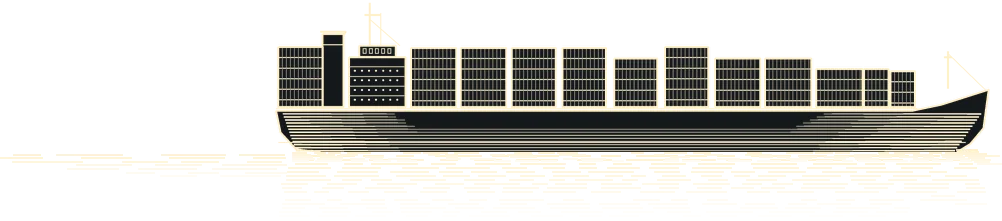
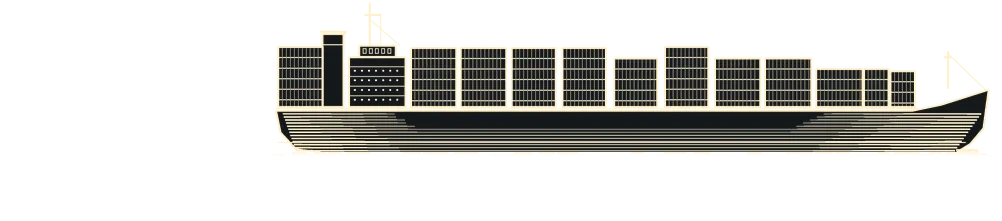
Home: living water and natural lighthouse light (#16)
* Home: living water and natural lighthouse light

WebGL water layer (assets/water.js) redraws the water band of the engraving
with gentle waves that grow toward the viewer, lights the water in a sector
that follows the rotating lamp, and adds a trembling lamp reflection under
the tower. Dotted ray strokes replaced by a soft flare on the flash. Footer
veil over the scene lightened with text shadows so the water stays visible.

Claude-Session: https://claude.ai/code/session_019uoHAZrWXwvkmWoHCXnm76

* Scene: ships no longer carry their own water strip

The hull layers are cut at the waterline so the ship sails over the living
water instead of dragging a patch of strokes along with it.

Claude-Session: https://claude.ai/code/session_019uoHAZrWXwvkmWoHCXnm76

---------

Changed region(s): [[0.0, 0.6787, 1.0, 0.8416]]

diff --git a/assets/water.js b/assets/water.js
@@ -1,0 +1,64 @@
+/* 29.10: жива вода у гравюрі (WebGL). Смуга води (y 1200–1800 сцени) малюється наново з м'яким хвилюванням,
+   що росте до глядача; світло маяка лягає на воду сектором за кутом ліхтаря (window.avLight з engrave.js),
+   під ліхтарем — тремтливий відблиск лампи. Без WebGL або при reduced-motion лишається статична картинка. */
+(function () {
+  var sec = document.querySelector('.lh'), eg = sec && sec.querySelector('.eg');
+  if (!eg || matchMedia('(prefers-reduced-motion:reduce)').matches) return;
+  var img = eg.querySelector('img.scene'); if (!img) return;
+  var cv = document.createElement('canvas'); cv.className = 'water';
+  var gl = cv.getContext('webgl', { alpha: false, antialias: false, premultipliedAlpha: false, powerPreference: 'low-power' });
+  if (!gl) return;
+  var VS = 'attribute vec2 p;varying vec2 u;void main(){u=vec2(p.x*0.5+0.5,0.5-p.y*0.5);gl_Position=vec4(p,0.,1.);}';
+  var FS = [
+    'precision mediump float;varying vec2 u;uniform sampler2D S,M;uniform float T,TH,FL,V0,X0,W;',
+    'float dA(float a,float b){float d=mod(a-b+3.14159,6.28318);return d-3.14159;}',
+    'void main(){float v=u.y;vec2 mu=vec2((X0+u.x*W)/3304.0,v);float m=texture2D(M,mu).r;',
+    /* хвилі: дрібні біля горизонту, більші й повільніші ближче */
+    'float k=1.0/(0.10+0.9*v);float w1=sin(u.x*52.0*k+T*0.8+v*9.0);float w2=sin(u.x*21.0*k-T*0.5+v*29.0);float w3=sin(v*9.0*k+T*1.1+u.x*13.0);',
+    'float a=(0.0007+0.0055*v*v)*m;float dx=a*(0.55*w1+0.35*w2);float dy=(0.0004+0.0035*v*v)*m*(0.6*w3+0.25*w1);',
+    'vec3 c=texture2D(S,vec2(u.x+dx,V0+v*(1.0-V0)+dy)).rgb;float lum=dot(c,vec3(0.3,0.5,0.2));',
+    /* площина води: глибина від горизонту, кут з маяка до точки (0 — праворуч, 90° — на глядача) */
+    'float ys=v*600.0+6.0;float Z=1000.0/ys;float xs=X0+u.x*W;float X=(xs-1380.0)*Z/1000.0;float Zl=1000.0/280.0;',
+    'float dX=X;float dZ=Zl-Z;float ang=atan(dZ,dX);float d=abs(dA(ang,TH));float dist=length(vec2(dX,dZ));',
+    'float sector=smoothstep(0.30,0.04,d)/(1.0+dist*0.22);float li=sector*(0.5+0.5*m)*(1.3+0.5*FL);',
+    'vec3 warm=vec3(1.0,0.92,0.72);c+=warm*li*(0.30+1.4*lum);',
+    /* відблиск лампи під маяком: стовпчик, ширшає й тремтить ближче, яскравіший у спалах */
+    'float wp=40.0+520.0*v;float col=exp(-pow((xs-1364.0)/wp,2.0))*smoothstep(0.44,0.58,v)*m;',
+    'col*=(0.30+0.70*FL)*(1.0-0.55*v)*(0.5+0.5*sin(v*80.0+T*2.1+w1*1.2));c+=warm*col*(0.3+1.0*lum)*1.2;',
+    'gl_FragColor=vec4(c,1.0);}'
+  ].join('\n');
+  function sh(t, s) { var o = gl.createShader(t); gl.shaderSource(o, s); gl.compileShader(o); if (!gl.getShaderParameter(o, gl.COMPILE_STATUS)) throw gl.getShaderInfoLog(o); return o; }
+  var pr;
+  try { pr = gl.createProgram(); gl.attachShader(pr, sh(gl.VERTEX_SHADER, VS)); gl.attachShader(pr, sh(gl.FRAGMENT_SHADER, FS)); gl.linkProgram(pr); if (!gl.getProgramParameter(pr, gl.LINK_STATUS)) throw 0; } catch (e) { return; }
+  gl.useProgram(pr);
+  var b = gl.createBuffer(); gl.bindBuffer(gl.ARRAY_BUFFER, b); gl.bufferData(gl.ARRAY_BUFFER, new Float32Array([-1, -1, 1, -1, -1, 1, 1, 1]), gl.STATIC_DRAW);
+  var p = gl.getAttribLocation(pr, 'p'); gl.enableVertexAttribArray(p); gl.vertexAttribPointer(p, 2, gl.FLOAT, false, 0, 0);
+  var U = {}; ['S', 'M', 'T', 'TH', 'FL', 'V0', 'X0', 'W'].forEach(function (n) { U[n] = gl.getUniformLocation(pr, n); });
+  function tex(unit) { var t = gl.createTexture(); gl.activeTexture(gl.TEXTURE0 + unit); gl.bindTexture(gl.TEXTURE_2D, t); ['WRAP_S', 'WRAP_T'].forEach(function (k) { gl.texParameteri(gl.TEXTURE_2D, gl['TEXTURE_' + k], gl.CLAMP_TO_EDGE); }); gl.texParameteri(gl.TEXTURE_2D, gl.TEXTURE_MIN_FILTER, gl.LINEAR); gl.texParameteri(gl.TEXTURE_2D, gl.TEXTURE_MAG_FILTER, gl.LINEAR); return t; }
+  var ts = tex(0), tm = tex(1), srcUp = '', maskOk = false, ready = false;
+  gl.uniform1i(U.S, 0); gl.uniform1i(U.M, 1); gl.uniform1f(U.V0, 1200 / 1800);
+  var mask = new Image(); mask.onload = function () { gl.activeTexture(gl.TEXTURE1); gl.bindTexture(gl.TEXTURE_2D, tm); gl.texImage2D(gl.TEXTURE_2D, 0, gl.RGB, gl.RGB, gl.UNSIGNED_BYTE, mask); maskOk = true; show(); }; mask.src = '/assets/eg/wmask.webp';
+  function upload() {
+    if (!img.complete || !img.naturalWidth || img.currentSrc === srcUp) return;
+    try { gl.activeTexture(gl.TEXTURE0); gl.bindTexture(gl.TEXTURE_2D, ts); gl.texImage2D(gl.TEXTURE_2D, 0, gl.RGB, gl.RGB, gl.UNSIGNED_BYTE, img); srcUp = img.currentSrc; show(); } catch (e) { }
+  }
+  function show() { if (!ready && srcUp && maskOk) { ready = true; eg.insertBefore(cv, img.parentNode.nextSibling); eg.classList.add('gl'); } }
+  img.addEventListener('load', upload); upload();
+  function size() {
+    var r = Math.min(1.5, devicePixelRatio || 1), w = Math.min(2048, Math.round(cv.clientWidth * r)), h = Math.round(cv.clientHeight * r);
+    if (w && h && (cv.width !== w || cv.height !== h)) { cv.width = w; cv.height = h; gl.viewport(0, 0, w, h); }
+    var ph = matchMedia('(max-width:600px)').matches; gl.uniform1f(U.X0, ph ? 839 : 0); gl.uniform1f(U.W, ph ? 1500 : 3304);
+  }
+  var inView = false, running = false, t0 = performance.now();
+  function frame(t) {
+    if (!inView || document.hidden || !ready) { running = false; return; }
+    size(); upload(); var L = window.avLight || { th: 20, fl: 0 };
+    gl.uniform1f(U.T, (t - t0) / 1000); gl.uniform1f(U.TH, L.th * Math.PI / 180); gl.uniform1f(U.FL, L.fl);
+    gl.drawArrays(gl.TRIANGLE_STRIP, 0, 4); requestAnimationFrame(frame);
+  }
+  function start() { if (running || !inView) return; running = true; requestAnimationFrame(frame); }
+  if ('IntersectionObserver' in window) new IntersectionObserver(function (es) { inView = es[0].isIntersecting; start(); }, { threshold: 0.05 }).observe(sec); else { inView = true; }
+  document.addEventListener('visibilitychange', function () { if (!document.hidden) start(); });
+  addEventListener('resize', function () { upload(); start(); });
+  var iv = setInterval(function () { if (ready) { clearInterval(iv); start(); } }, 200);
+})();

diff --git a/assets/one.css b/assets/one.css
@@ -447,7 +447,12 @@ html.intro-on{overflow:hidden}
 @media (max-width:700px){.voy{padding:0 0 0 34px}.voy-steps{grid-template-columns:1fr;gap:22px}.voy-steps li{text-align:left;padding:0 0 0 0}.voy-dot{left:-34px;top:6px;margin:0}.voy-ship{margin:-11px 0 0 -14px;width:40px;height:18px}}
 @media (prefers-reduced-motion:reduce){.voy-dot,.voy-steps li,.voy-steps b{transition:none}}
 /* 29.10 (Мурат): підвал лягає на сцену маяка — текст поверх води з плавним затемненням, без порожнього проміжку */
-main:has(.lh)+footer{position:relative;z-index:3;margin-top:-300px;padding-top:150px;background:linear-gradient(180deg,rgba(20,24,28,0) 0,rgba(20,24,28,.72) 110px,rgba(20,24,28,.96) 200px,var(--ink) 300px)}
+main:has(.lh)+footer{position:relative;z-index:3;margin-top:-300px;padding-top:150px;background:linear-gradient(180deg,rgba(20,24,28,0) 0,rgba(20,24,28,.3) 110px,rgba(20,24,28,.6) 220px,var(--ink) 300px);text-shadow:0 1px 10px rgba(0,0,0,1),0 0 3px rgba(0,0,0,1)}
 main:has(.lh)+footer .legal{border-top-color:rgba(255,255,255,.1)}
-@media (max-width:600px){main:has(.lh)+footer{margin-top:-150px;padding-top:120px;padding-bottom:calc(72px + env(safe-area-inset-bottom));background:linear-gradient(180deg,rgba(20,24,28,0) 0,rgba(20,24,28,.78) 70px,rgba(20,24,28,.97) 130px,var(--ink) 150px)}
+@media (max-width:600px){main:has(.lh)+footer{margin-top:-150px;padding-top:120px;padding-bottom:calc(72px + env(safe-area-inset-bottom));background:linear-gradient(180deg,rgba(20,24,28,0) 0,rgba(20,24,28,.4) 80px,rgba(20,24,28,.85) 150px,var(--ink) 200px)}
 .lh .wrap{padding-bottom:68px}.lh .glass{padding:9px 12px}.lh .glass .btn{display:none}.lh .glass p{font-size:14px;max-width:16em}}
+
+.lh .eg canvas.water{position:absolute;display:block;inset:auto;left:0;top:66.667%;width:100%;height:33.334%;pointer-events:none}
+.lh .eg.gl .glint,.lh .eg.gl .wa,.lh .eg.gl .wb,.lh .eg .rays{visibility:hidden;animation:none}
+.lh .eg .flare{position:absolute;left:0;top:0;inset:auto;width:0;height:0;border-radius:50%;background:radial-gradient(circle,rgba(255,242,210,.95),rgba(255,236,190,.4) 28%,rgba(255,236,190,0) 68%);mix-blend-mode:screen;opacity:0;z-index:3;pointer-events:none;will-change:transform,opacity}
+@media (prefers-reduced-motion:reduce){.lh .eg .flare{display:none}}

diff --git a/assets/engrave.js b/assets/engrave.js
@@ -54,6 +54,9 @@
     }, { threshold: 0.05 }).observe(sec);
   } else { seen = true; reveal(); }
   var beam = eg.querySelector('.beam'), lamp = eg.querySelector('.lamp'), rays = eg.querySelector('.rays');
+  /* м'яке сяйво лампи замість пунктирних променів; стан світла для води (water.js) */
+  var flare = document.createElement('div'); flare.className = 'flare'; eg.insertBefore(flare, rays.parentNode);
+  window.avLight = { th: 20, fl: 0, toUs: 0 };
   var last = performance.now(), t0 = last, th = 20;
   function place(t) {
     ships.forEach(function (s, i) {
@@ -94,7 +97,11 @@
     var fl = Math.max(0, toUs - 0.86) / 0.14, bo = side * 0.9 + 0.1 * Math.max(0, -toUs);
     beam.style.transform = 'rotate(' + sa + 'deg)'; beam.style.opacity = (bo * (1 - fl)).toFixed(3);
     var br = 0.55 + 0.1 * Math.abs(Math.sin(t / 1000 * 1.3)) + 0.45 * fl;
-    lamp.style.opacity = br; rays.style.opacity = (fl * 0.9).toFixed(3);
+    lamp.style.opacity = br; rays.style.opacity = 0;
+    var fs = (260 + 420 * fl) * K; flare.style.width = flare.style.height = fs + 'px';
+    flare.style.transform = 'translate(' + ((LAMP[0] - X0) * K - fs / 2).toFixed(1) + 'px,' + (LAMP[1] * K - fs / 2).toFixed(1) + 'px)';
+    flare.style.opacity = (0.18 + 0.82 * fl).toFixed(3);
+    window.avLight.th = th; window.avLight.fl = fl; window.avLight.toUs = toUs;
     /* блик на воді: далеко біля горизонту збоку, ближче і ширше, коли світло йде на нас */
     var gx = LAMP[0] + 1500 * Math.cos(r), gy = HOR + 40 + 420 * Math.max(0, toUs), gw = 520 + 900 * Math.max(0, toUs), gh = 60 + 160 * Math.max(0, toUs);
     glint.style.transform = 'translate(' + ((gx - X0 - gw / 2) * K).toFixed(1) + 'px,' + ((gy - gh / 2) * K).toFixed(1) + 'px)';

diff --git a/tr/index.html b/tr/index.html
@@ -24,6 +24,6 @@
 <a class="stk" href="#request" aria-hidden="true" tabindex="-1">Fiyat isteyin</a>
 <script>(function(){var g=document.querySelector('.ab-stats');if(!g||!window.IntersectionObserver||matchMedia('(prefers-reduced-motion:reduce)').matches)return;var b=[].slice.call(g.querySelectorAll('b[data-to]'));b.forEach(function(e){e.firstChild.textContent='0';e.classList.add('cnt')});new IntersectionObserver(function(en,o){if(!en[0].isIntersecting)return;o.disconnect();var t0=performance.now();(function f(t){var k=Math.min(1,(t-t0)/1600),v=1-Math.pow(1-k,3);b.forEach(function(e){e.firstChild.textContent=Math.round(e.dataset.to*v).toString().replace(/\B(?=(\d{3})+$)/g,document.documentElement.lang=='uk'?' ':document.documentElement.lang=='tr'?'.':',')});if(k<1)requestAnimationFrame(f);else b.forEach(function(e){e.classList.remove('cnt')})})(t0)},{threshold:.2}).observe(g)})()</script>
 <script>(function(){var k=document.querySelector('.stk'),h=document.querySelector('.hero .acts'),r=document.getElementById('request');if(!k||!h||!r||!window.IntersectionObserver)return;var v={},o=new IntersectionObserver(function(e){e.forEach(function(x){v[x.target===h?'h':'r']=x.isIntersecting});var on=!v.h&&!v.r;k.classList.toggle('on',on);k.setAttribute('aria-hidden',on?'false':'true');k.tabIndex=on?0:-1});o.observe(h);o.observe(r)})()</script>
-<script src="/assets/fx.js" defer></script><script src="/assets/voyage.js" defer></script><script src="/assets/intro.js" defer></script><script src="/assets/engrave.js" defer></script>
+<script src="/assets/fx.js" defer></script><script src="/assets/voyage.js" defer></script><script src="/assets/intro.js" defer></script><script src="/assets/engrave.js" defer></script><script src="/assets/water.js" defer></script>
 <script src="/assets/routemap.js" defer></script>
 </body></html>

diff --git a/index.html b/index.html
@@ -24,6 +24,6 @@
 <a class="stk" href="#request" aria-hidden="true" tabindex="-1">Запросити ціну</a>
 <script>(function(){var g=document.querySelector('.ab-stats');if(!g||!window.IntersectionObserver||matchMedia('(prefers-reduced-motion:reduce)').matches)return;var b=[].slice.call(g.querySelectorAll('b[data-to]'));b.forEach(function(e){e.firstChild.textContent='0';e.classList.add('cnt')});new IntersectionObserver(function(en,o){if(!en[0].isIntersecting)return;o.disconnect();var t0=performance.now();(function f(t){var k=Math.min(1,(t-t0)/1600),v=1-Math.pow(1-k,3);b.forEach(function(e){e.firstChild.textContent=Math.round(e.dataset.to*v).toString().replace(/\B(?=(\d{3})+$)/g,document.documentElement.lang=='uk'?' ':',')});if(k<1)requestAnimationFrame(f);else b.forEach(function(e){e.classList.remove('cnt')})})(t0)},{threshold:.2}).observe(g)})()</script>
 <script>(function(){var k=document.querySelector('.stk'),h=document.querySelector('.hero .acts'),r=document.getElementById('request');if(!k||!h||!r||!window.IntersectionObserver)return;var v={},o=new IntersectionObserver(function(e){e.forEach(function(x){v[x.target===h?'h':'r']=x.isIntersecting});var on=!v.h&&!v.r;k.classList.toggle('on',on);k.setAttribute('aria-hidden',on?'false':'true');k.tabIndex=on?0:-1});o.observe(h);o.observe(r)})()</script>
-<script src="/assets/fx.js" defer></script><script src="/assets/voyage.js" defer></script><script src="/assets/intro.js" defer></script><script src="/assets/engrave.js" defer></script>
+<script src="/assets/fx.js" defer></script><script src="/assets/voyage.js" defer></script><script src="/assets/intro.js" defer></script><script src="/assets/engrave.js" defer></script><script src="/assets/water.js" defer></script>
 <script src="/assets/routemap.js" defer></script>
 </body></html>

diff --git a/en/index.html b/en/index.html
@@ -24,6 +24,6 @@
 <a class="stk" href="#request" aria-hidden="true" tabindex="-1">Request a price</a>
 <script>(function(){var g=document.querySelector('.ab-stats');if(!g||!window.IntersectionObserver||matchMedia('(prefers-reduced-motion:reduce)').matches)return;var b=[].slice.call(g.querySelectorAll('b[data-to]'));b.forEach(function(e){e.firstChild.textContent='0';e.classList.add('cnt')});new IntersectionObserver(function(en,o){if(!en[0].isIntersecting)return;o.disconnect();var t0=performance.now();(function f(t){var k=Math.min(1,(t-t0)/1600),v=1-Math.pow(1-k,3);b.forEach(function(e){e.firstChild.textContent=Math.round(e.dataset.to*v).toString().replace(/\B(?=(\d{3})+$)/g,document.documentElement.lang=='uk'?' ':',')});if(k<1)requestAnimationFrame(f);else b.forEach(function(e){e.classList.remove('cnt')})})(t0)},{threshold:.2}).observe(g)})()</script>
 <script>(function(){var k=document.querySelector('.stk'),h=document.querySelector('.hero .acts'),r=document.getElementById('request');if(!k||!h||!r||!window.IntersectionObserver)return;var v={},o=new IntersectionObserver(function(e){e.forEach(function(x){v[x.target===h?'h':'r']=x.isIntersecting});var on=!v.h&&!v.r;k.classList.toggle('on',on);k.setAttribute('aria-hidden',on?'false':'true');k.tabIndex=on?0:-1});o.observe(h);o.observe(r)})()</script>
-<script src="/assets/fx.js" defer></script><script src="/assets/voyage.js" defer></script><script src="/assets/intro.js" defer></script><script src="/assets/engrave.js" defer></script>
+<script src="/assets/fx.js" defer></script><script src="/assets/voyage.js" defer></script><script src="/assets/intro.js" defer></script><script src="/assets/engrave.js" defer></script><script src="/assets/water.js" defer></script>
 <script src="/assets/routemap.js" defer></script>
 </body></html>
